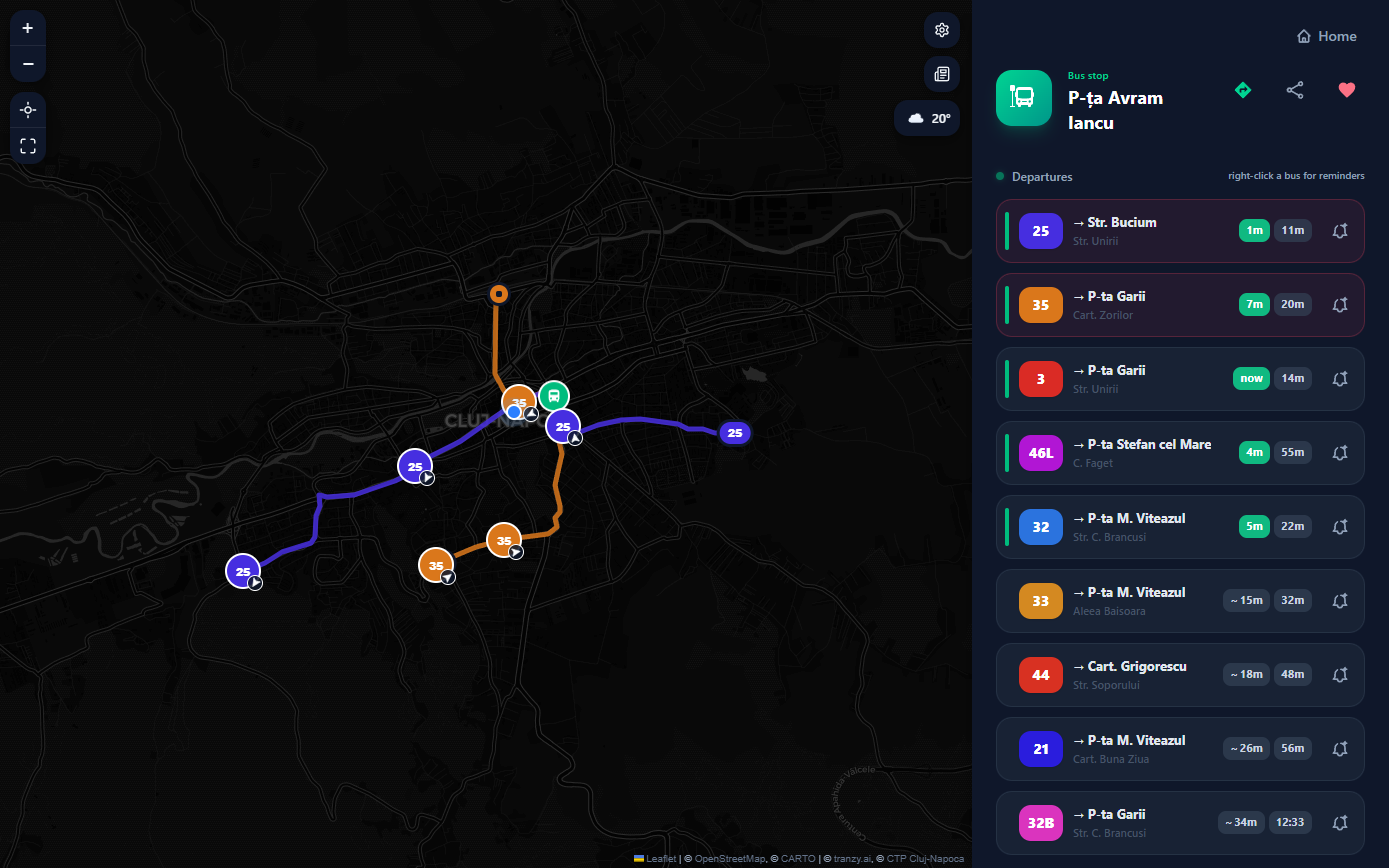
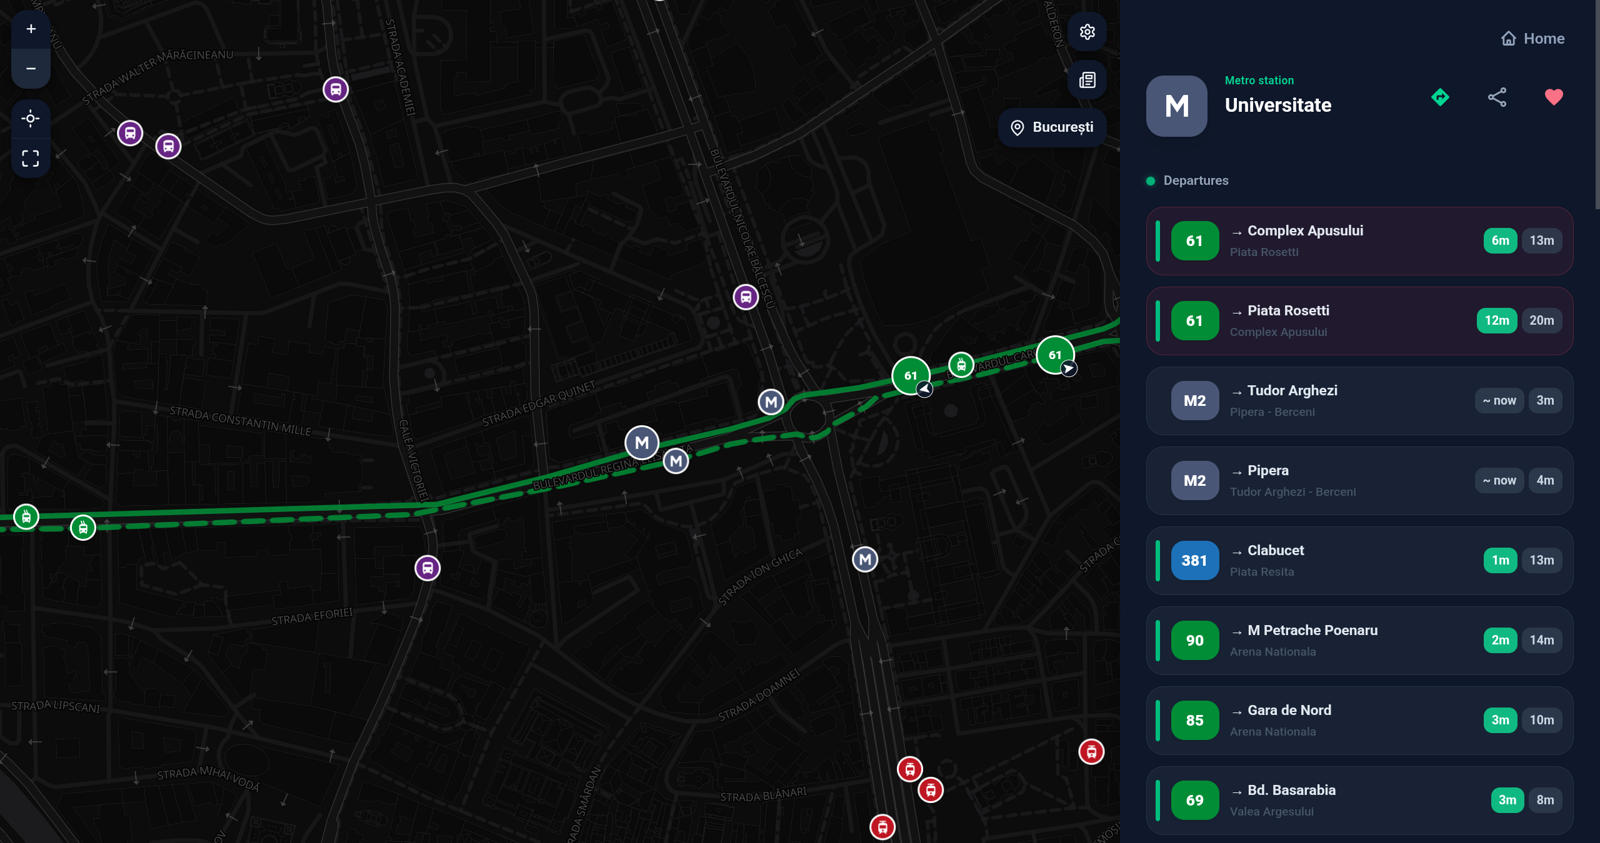
README update

diff --git a/README.md b/README.md
@@ -1,32 +1,35 @@
 # Ce autobuz iau?
 
-A live bus and tram tracker for Cluj-Napoca. I ride CTP every day and got tired of the official site, so I built the one I actually wanted to use.
+A live bus and tram tracker for Cluj-Napoca, București, Iași, Oradea and Constanța. I ride CTP every day and got tired of the official site, so I built the one I actually wanted to use.
 
 **[ceautobuziau.ro](https://ceautobuziau.ro)** (formerly Conexiuni Cluj)
 
-![A stop with live departures, and the favorite lines moving on the map](readme/desktop-stop.png)
+![Universitate in București: metro and bus departures from every platform together, and the stations around it on the map](readme/desktop-stop.png)
 
 ## What it does
 
-- Every CTP bus and tram on the map, live
+- Live buses, trams and trolleybuses on the map
 - Departures for any stop. Tracked buses get a live countdown, the rest show approximate times
+- Platforms with the same name are one station, with all their departures in one list
+- Every station shows what stops there: a metro, tram, trolleybus or bus icon in the colour of its lines. Two stations of the same kind with the same name get their town or street added
 - The times get better on their own: the server watches the buses and learns how long each stretch really takes, hour by hour
-- Full timetables for every line, straight from CTP
+- Full timetables for every line, from the operator
 - A route planner: leave now, leave at, arrive by, or the last one today
 - Step-by-step guidance for a planned trip
 - Follow a bus and get told when it comes, and reminders for the buses you take often (experimental)
-- Favorite stops, and favorite lines per direction
-- Follow a line and get a notification when CTP changes its timetable or route
-- Installable as an app. After the first visit every stop, line and timetable opens without the server: the whole network comes down once (about 180 KB) and only the buses stay live
-- Move your favorites and settings to another phone or your watch by scanning a code
+- Favorite stops, places and lines per direction, for each city
+- The operator's news, and a notification when a line you follow changes its timetable or route
+- Installable as an app. After the first visit every stop, line and timetable opens without the server: the city's whole network comes down once (about 180 KB for Cluj) and only the buses stay live
+- Move your favorites and settings to another phone, the Android app or your watch by scanning a code
 - Works from a hardware keyboard too, no arrow keys needed (hjkl and letter shortcuts)
 
 There are a few hidden things scattered around for the curious. 🐣
 
 <p align="center">
-  <img src="readme/phone-route.png" width="250" alt="A line's stops with live arrival times">
-  <img src="readme/phone-planner.png" width="250" alt="A planned trip from the train station to Iulius Mall, ready to start">
-  <img src="readme/phone-timetable.png" width="250" alt="A line's timetable, with the times already gone faded out">
+  <img src="readme/phone-home.png" width="200" alt="Favorite lines and stations in București, the metro stations marked with an M">
+  <img src="readme/phone-route.png" width="200" alt="Line 25's stops with live arrival times, a favorite stop marked with a heart">
+  <img src="readme/phone-planner.png" width="200" alt="A planned trip from the dorm to the university, ready to start">
+  <img src="readme/phone-timetable.png" width="200" alt="A line's timetable, with the times already gone faded out">
 </p>
 
 ### Themes
@@ -42,20 +45,13 @@ There are a few hidden things scattered around for the curious. 🐣
   </tr>
 </table>
 
-### On a watch
+### Apps
 
-It runs in a smartwatch browser too, with a simplified layout: favorites, departures, a line's stops and the live map. Scan the code from Settings to bring your favorites over.
-
-<p align="center">
-  <img src="readme/watch-menu.png" width="180" alt="Simplified layout menu with favorites">
-  <img src="readme/watch-stop.png" width="180" alt="Departures from a stop">
-  <img src="readme/watch-route.png" width="180" alt="A line's timetable for today">
-  <img src="readme/watch-map.png" width="180" alt="Live buses on the map">
-</p>
+There's an [Android app](https://github.com/bmarian/conexiuni-cluj-mobile) and a [Wear OS app](https://github.com/bmarian/conexiuni-cluj-wearos), with the same buses, stations and timetables.
 
 ### On a Playdate
 
-There's a [Playdate companion](https://github.com/bmarian/conexiuni-cluj-playdate) too. It syncs once over Wi-Fi, then stops, routes and timetables work offline.
+There's a [Playdate companion](https://github.com/bmarian/conexiuni-cluj-playdate) for Cluj too. It syncs once over Wi-Fi, then stops, lines and timetables work offline.
 
 <p align="center">
   <img src="readme/playdate-station.png" width="260" alt="A stop on the Playdate with the next arrivals">
@@ -67,12 +63,15 @@ There's a [Playdate companion](https://github.com/bmarian/conexiuni-cluj-playdat
 
 ## Running it yourself
 
-You'll need Node 22.12+, Go 1.26+, and a [Tranzy](https://tranzy.ai/) API key.
+You'll need Node 22.12+ and Go 1.26+. București runs on TPBI's open feeds; the other cities need a [Tranzy](https://tranzy.ai/) API key each.
 
-Put your keys in a `keys.env` next to this README.
+Put your keys in a `keys.env` next to this README. A city without its key is left out.
 
 ```bash
-TRANZY_API_KEY=your_tranzy_key
+TRANZY_API_KEY_CLUJ=your_tranzy_key
+TRANZY_API_KEY_IASI=your_tranzy_key
+TRANZY_API_KEY_ORADEA=your_tranzy_key
+TRANZY_API_KEY_CONSTANTA=your_tranzy_key
 ```
 
 Then the backend and the frontend, each in its own terminal:
@@ -88,23 +87,28 @@ npm install
 npm run dev
 ```
 
-The backend listens on `:6698` and the dev server proxies `/api` to it. Everything else has a default in [`.env`](.env).
+The backend listens on `:6698` and the dev server proxies `/api` to it. Everything else has a default in [`.env`](.env). Each city has its own SQLite file in `db/`, and the cities listed in `db/disabled-cities.json` are switched off.
 
-**The network bundle** (`/api/network`) is every line with its timetable, stop sequence and learned travel times for each hour of each kind of day, plus every stop. Every client builds stop pages, line pages and timetables from it; there are no per-stop or per-line endpoints. `/api/network/version` tells it when the lines changed. The learned travel times are read once per quarter hour, so those answers hold still between refreshes. **Arrivals** come from `/api/live`: the server snaps every bus once per poll, predicts its arrival at each downstream stop, follows it onto its next trip at a through-running terminus and merges the result with the timetable into final rows per trip and stop. Subscribe by `stop_ids` and `trip_ids` for an SSE stream (a snapshot, then only the rows and buses that changed, gzipped), or add `once=1` for a single JSON answer. Shapes come as encoded polylines with `/api/shapes?format=polyline`. Older consumers: [docs/migration-playdate.md](docs/migration-playdate.md) and [docs/migration-embedded.md](docs/migration-embedded.md).
+**The API** is per city, under `/api/{city}/`. `/api/cities` lists them.
+
+**The network bundle** (`/api/{city}/network`) is every line with its timetable, stop sequence and learned travel times for each hour of each kind of day, plus every stop and the station it belongs to. Every client builds stop pages, line pages and timetables from it; there are no per-stop or per-line endpoints. `/api/{city}/network/version` tells it when the lines changed. The learned travel times are read once per quarter hour, so those answers hold still between refreshes. **Arrivals** come from `/api/{city}/live`: the server snaps every bus once per poll, predicts its arrival at each downstream stop, follows it onto its next trip at a through-running terminus and merges the result with the timetable into final rows per trip and stop. Subscribe by `stop_ids` and `trip_ids` for an SSE stream (a snapshot, then only the rows and buses that changed, gzipped), or add `once=1` for a single JSON answer. Shapes come as encoded polylines with `/api/{city}/shapes?format=polyline`. Older devices: [docs/migration-embedded.md](docs/migration-embedded.md).
 
 **Push notifications** need a VAPID key pair in `keys.env` (`VAPID_PUBLIC_KEY`, `VAPID_PRIVATE_KEY`, and `VAPID_SUBJECT` as a contact email or URL). Without it the server runs with push turned off.
 
-**The route planner** runs inside the Go server. It reads the walkable streets around the stops from `backend/services/osm/romania-latest.osm.pbf`, which [`update.sh`](update.sh) downloads from Geofabrik (`--update-pbf` refreshes it).
+**OpenStreetMap** data comes from `backend/services/osm/romania-latest.osm.pbf`, which [`update.sh`](update.sh) downloads from Geofabrik (`--update-pbf` refreshes it). The route planner walks its streets, place search looks through its addresses and places, and the town and street names that tell stations apart come from it too.
 
-**Production** is `npm run build` in `frontend/`, which writes to `backend/dist/`, and the Go server serves it directly. `update.sh` is what I deploy with.
+**Production** is `npm run build` in `frontend/`, which writes to `backend/dist/`, and the Go server serves it directly. `update.sh` is what I deploy with; `--bust-cache` makes every city fetch its lines, stops and timetables again.
 
 ## Credits
 
-| Source                                                       | Used for                                                                                   |
-| ------------------------------------------------------------ | ------------------------------------------------------------------------------------------ |
-| [Tranzy.ai](https://tranzy.ai/)                              | Live GPS positions and GTFS data for CTP Cluj-Napoca                                       |
-| [CTP Cluj-Napoca](https://www.ctpcj.ro/)                     | Official timetables                                                                        |
-| [Open-Meteo](https://open-meteo.com/)                        | Weather data                                                                               |
-| [OpenStreetMap](https://www.openstreetmap.org/) contributors | Map data, © OpenStreetMap contributors, [ODbL](https://opendatacommons.org/licenses/odbl/) |
-| [OpenFreeMap](https://openfreemap.org/), [OpenMapTiles](https://openmaptiles.org/) | Map tiles                                                         |
-| [Nominatim](https://nominatim.org/)                          | Address search                                                                             |
+| Source                                                                             | Used for                                                                                     |
+| ---------------------------------------------------------------------------------- | -------------------------------------------------------------------------------------------- |
+| [Tranzy.ai](https://tranzy.ai/)                                                    | Live positions, lines and stops for Cluj-Napoca, Iași, Oradea and Constanța                 |
+| [CTP Cluj-Napoca](https://ctpcj.ro/)                                               | Cluj-Napoca's timetables and news                                                            |
+| [gtfs.ro](https://gtfs.ro/)                                                        | Timetables for Iași, Oradea and Constanța                                                    |
+| [TPBI](https://tpbi.ro/)                                                           | Lines, timetables, live positions and news for București                                     |
+| [CTP Iași](https://www.sctpiasi.ro/), [OTL](https://www.otl.ro/), [CT BUS](https://www.ctbus.ro/) | News for Iași, Oradea and Constanța                                           |
+| [OpenStreetMap](https://www.openstreetmap.org/) contributors                       | Map data, walking routes, place search, town and street names. © OpenStreetMap contributors, [ODbL](https://opendatacommons.org/licenses/odbl/) |
+| [Geofabrik](https://www.geofabrik.de/)                                             | The Romania extract of OpenStreetMap                                                         |
+| [OpenFreeMap](https://openfreemap.org/), [OpenMapTiles](https://openmaptiles.org/) | Map tiles                                                                                    |
+| [MapLibre](https://maplibre.org/)                                                  | The map                                                                                      |

diff --git a/docs/migration-embedded.md b/docs/migration-embedded.md
@@ -1,7 +1,7 @@
 ## 1. Ask the server for the arrival times
 
 ```
-GET /api/live?stop_ids=391&once=1
+GET /api/cluj/live?stop_ids=391&once=1
 ```
 
 ```json
@@ -38,7 +38,7 @@ GET /api/live?stop_ids=391&once=1
 
 ## 2. Stay offline with the bundle
 
-If the device must work from an hourly fetch, `GET /api/network` (a few MB, gzip-compressed) once a day replaces `/api/stop_info`; `GET /api/network/version` says when it changed.
+If the device must work from an hourly fetch, `GET /api/cluj/network` (about 180 KB gzipped) once a day replaces `/api/stop_info`; `GET /api/cluj/network/version` says when it changed.
 
 For the stop:
 
